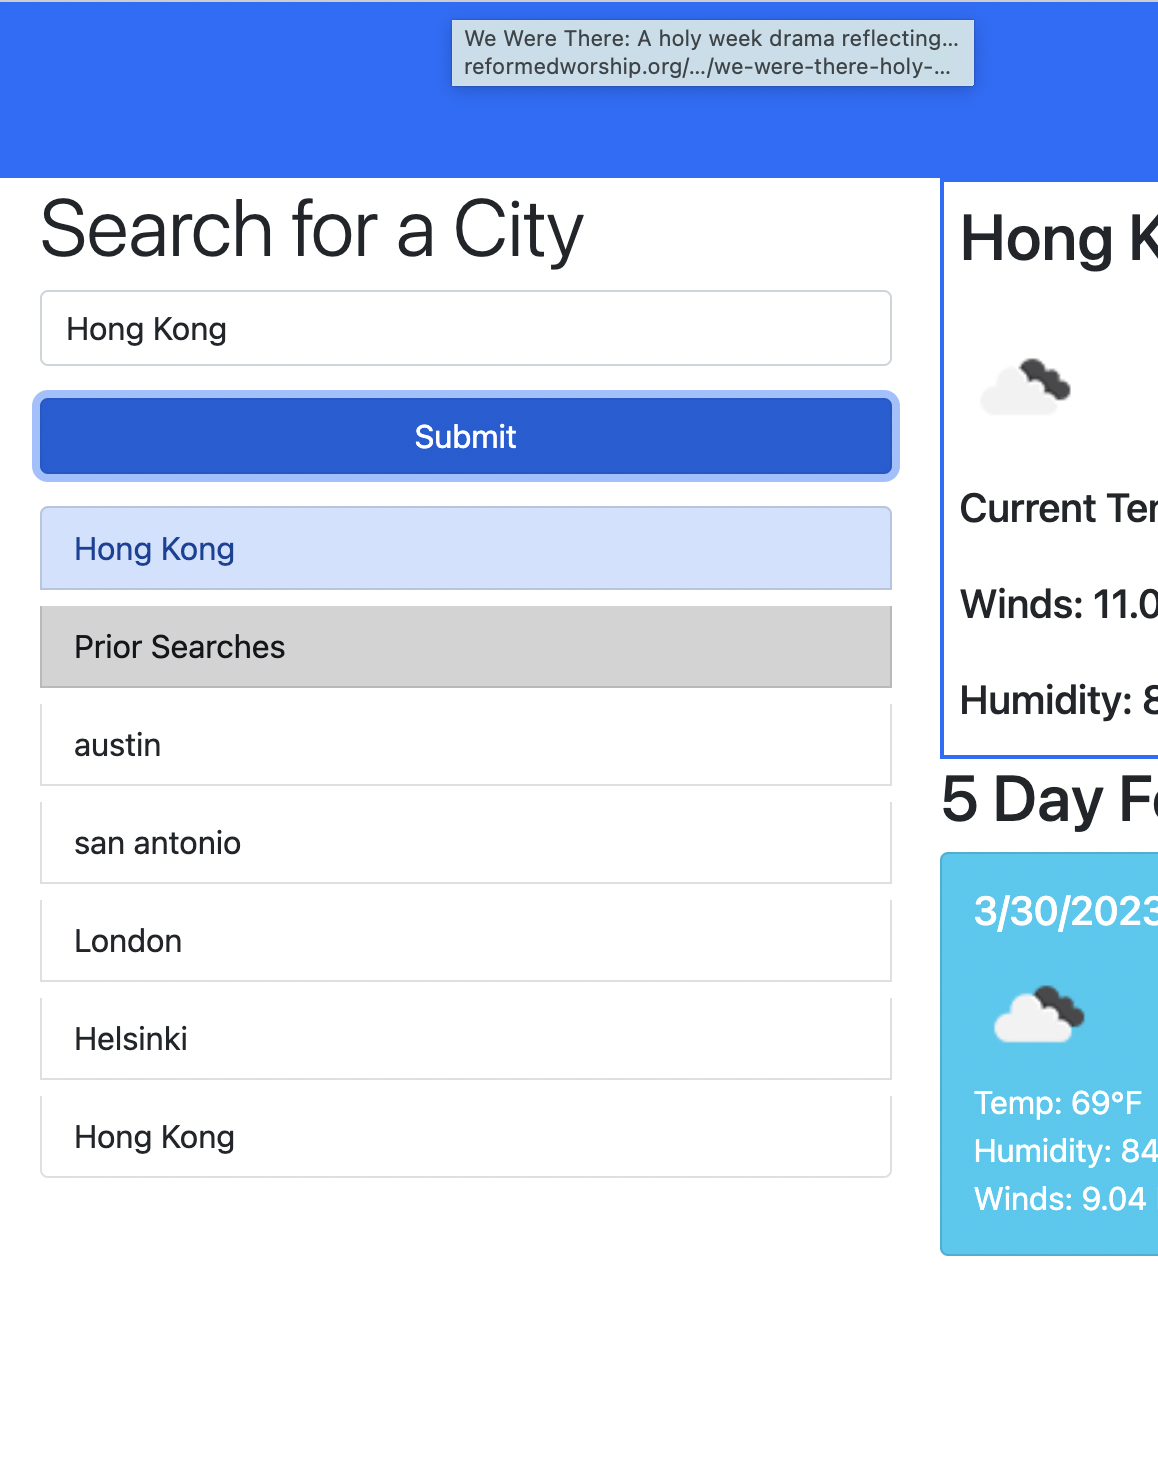
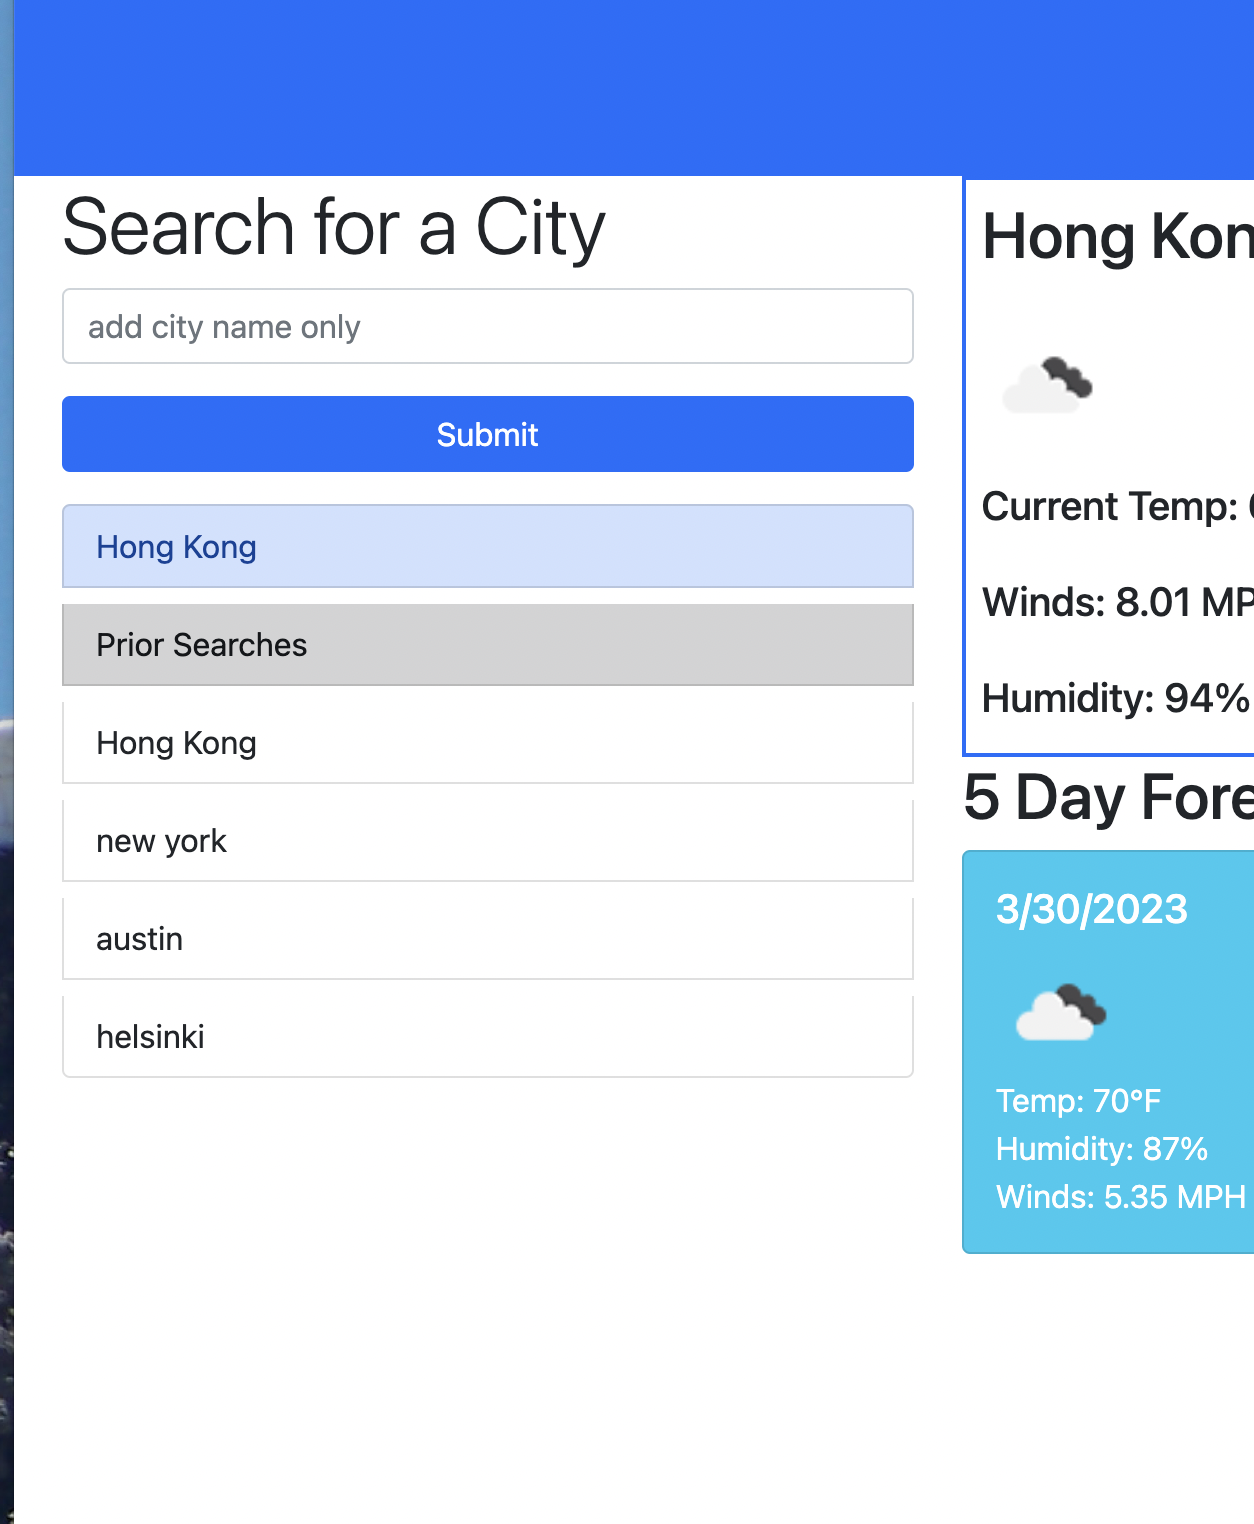
Cleaned up code and made minor adjustments to README

Changed region(s): [[0.0, 0.0, 1.0, 1.0], [0.3731, 0.0, 0.8394, 0.062], [0.0622, 0.7439, 0.2176, 0.7749]]

diff --git a/assets/index.js b/assets/index.js
@@ -217,12 +217,6 @@ fetch(forecastUrl)
     forHumEl5.textContent = humForecast;
     forWindEl5.textContent = windForecast;
  
-
-    
-
-
-
-   
 });
 }
 // retrieves saved item from last visit and makes it the active city
@@ -233,20 +227,24 @@ function getLast() {
     cityList.appendChild(newCity);
     newCity.textContent = city;
 }
+// on page load - these functions run
 getLast();
 getForecast();
 getCurrent();
 
 // this handles search for particular city
-submit.addEventListener('click', function(event) {
-    event.preventDefault;
- 
+submit.addEventListener('click', function() {
+    // event.preventDefault;
+    //clears text from forecast boxes
     list1.replaceChildren();
     list2.replaceChildren();
     list3.replaceChildren();
     list4.replaceChildren();
     list5.replaceChildren();
+
+    //sets new city by user input
     city = userCity.value.trim();
+    userCity.value = "";
     var newCity = document.createElement('li');
     newCity.setAttribute('class', 'list-group-item list-group-item-action new-city');
     cityList.appendChild(newCity);
@@ -261,13 +259,16 @@ submit.addEventListener('click', function(event) {
 var cityListEl = $('#city-list');
 var newCityEl = $('.new-city')
 cityListEl.on('click', '.new-city', function(event){
+    //clears data from the forecast boxes
     list1.replaceChildren();
     list2.replaceChildren();
     list3.replaceChildren();
     list4.replaceChildren();
     list5.replaceChildren();
-    city = event.target.innerHTML;  //this line is wrong - see 05 - 09
+    // sets the city as the clicked item
+    city = event.target.innerHTML; 
     console.log(city);
+    //clears the array from the previous api call
     dataArray = [];
     getCurrent();
     getForecast();

diff --git a/index.html b/index.html
@@ -32,7 +32,7 @@
 
             </div>
             <div class="col-auto">
-                <input type="text" class="form-control mb-3" id="userInput">
+                <input type="text" class="form-control mb-3" id="userInput" placeholder="add city name only">
 
                 <button id="submitBtn" type="submit" class="btn btn-primary mb-3 col-12">Submit</button>
             </div>

diff --git a/README.md b/README.md
@@ -1,6 +1,6 @@
 # Weather Dashboard
 
-Provides a quick search of current weather with a five day forecast
+Provides a quick search of current weather with a five day forecast in a city of your choice.
 
 ## Description
 
